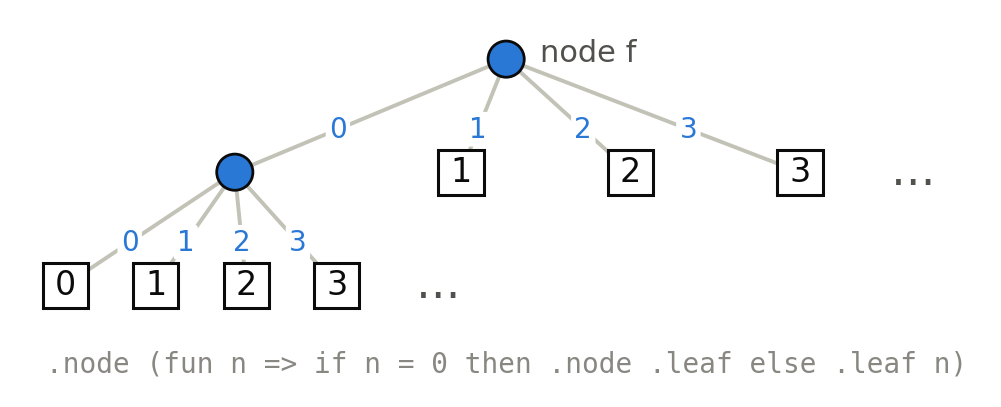
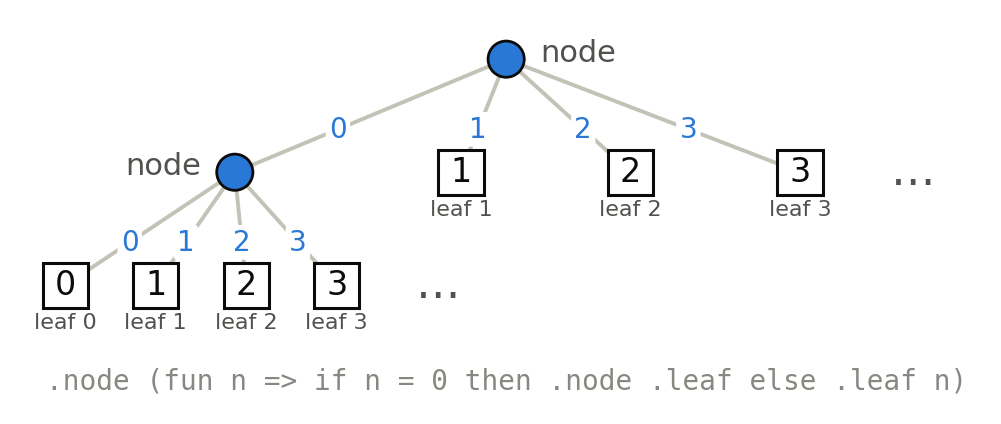
MyTree figure: leaves labelled leaf n, both nodes labelled node
Claude-Session: https://claude.ai/code/session_01THRcNAt42y7YQLVyLxaQdc

diff --git a/scripts/figures/mytree.py b/scripts/figures/mytree.py
@@ -5,7 +5,7 @@ Draws the term
     .node (fun n => if n = 0 then .node .leaf else .leaf n)
 A node (filled circle) has one subtree for every natural number; the
 edge to the subtree `f n` is labelled `n`. Leaves (squares) carry their
-number. Only the first subtrees are drawn, the dots stand for the rest.
+number and are labelled `leaf n`. Only the first subtrees are drawn, the dots stand for the rest.
 """
 from pathlib import Path
 import matplotlib; matplotlib.use("Agg")
@@ -28,6 +28,7 @@ def leaf(x, y, a):
     ax.add_patch(plt.Rectangle((x - 0.2, y - 0.2), 0.4, 0.4, facecolor="white",
                                edgecolor=INK, lw=1.1, zorder=3))
     ax.text(x, y, str(a), ha="center", va="center", fontsize=12, color=INK, zorder=4)
+    ax.text(x, y - 0.33, f"leaf {a}", ha="center", va="center", fontsize=8, color=MUTED)
 
 def dots(x, y):
     ax.text(x, y, "…", ha="center", va="center", fontsize=16, color=MUTED)
@@ -39,6 +40,7 @@ for n, x in enumerate(xs):
     edge(*root, x, 1.0, str(n))
     if n == 0:
         node(x, 1.0)
+        ax.text(x - 0.3, 1.05, "node", ha="right", va="center", fontsize=11, color=MUTED)
         for k in range(K):
             xk = x - 1.5 + k * 0.8
             edge(x, 1.0, xk, 0.0, str(k))
@@ -48,10 +50,10 @@ for n, x in enumerate(xs):
         leaf(x, 1.0, n)
 dots(xs[-1] + 1.0, 1.0)
 
-ax.text(root[0] + 0.3, root[1] + 0.05, "node f", fontsize=11, color=MUTED, va="center")
-ax.text(4.0, -0.7, ".node (fun n => if n = 0 then .node .leaf else .leaf n)",
+ax.text(root[0] + 0.3, root[1] + 0.05, "node", fontsize=11, color=MUTED, va="center")
+ax.text(4.0, -0.85, ".node (fun n => if n = 0 then .node .leaf else .leaf n)",
         ha="center", va="center", fontsize=10, color="#898781", family="monospace")
-ax.set_xlim(-0.3, 8.2); ax.set_ylim(-0.9, 2.35); ax.set_aspect("equal"); ax.axis("off")
+ax.set_xlim(-0.3, 8.2); ax.set_ylim(-1.05, 2.35); ax.set_aspect("equal"); ax.axis("off")
 out = Path(__file__).resolve().parents[2] / "static" / "figures" / "mytree"
 fig.savefig(f"{out}.png", dpi=200, bbox_inches="tight", facecolor="white")
 fig.savefig(f"{out}.pdf", bbox_inches="tight", facecolor="white"); print("wrote", out)
